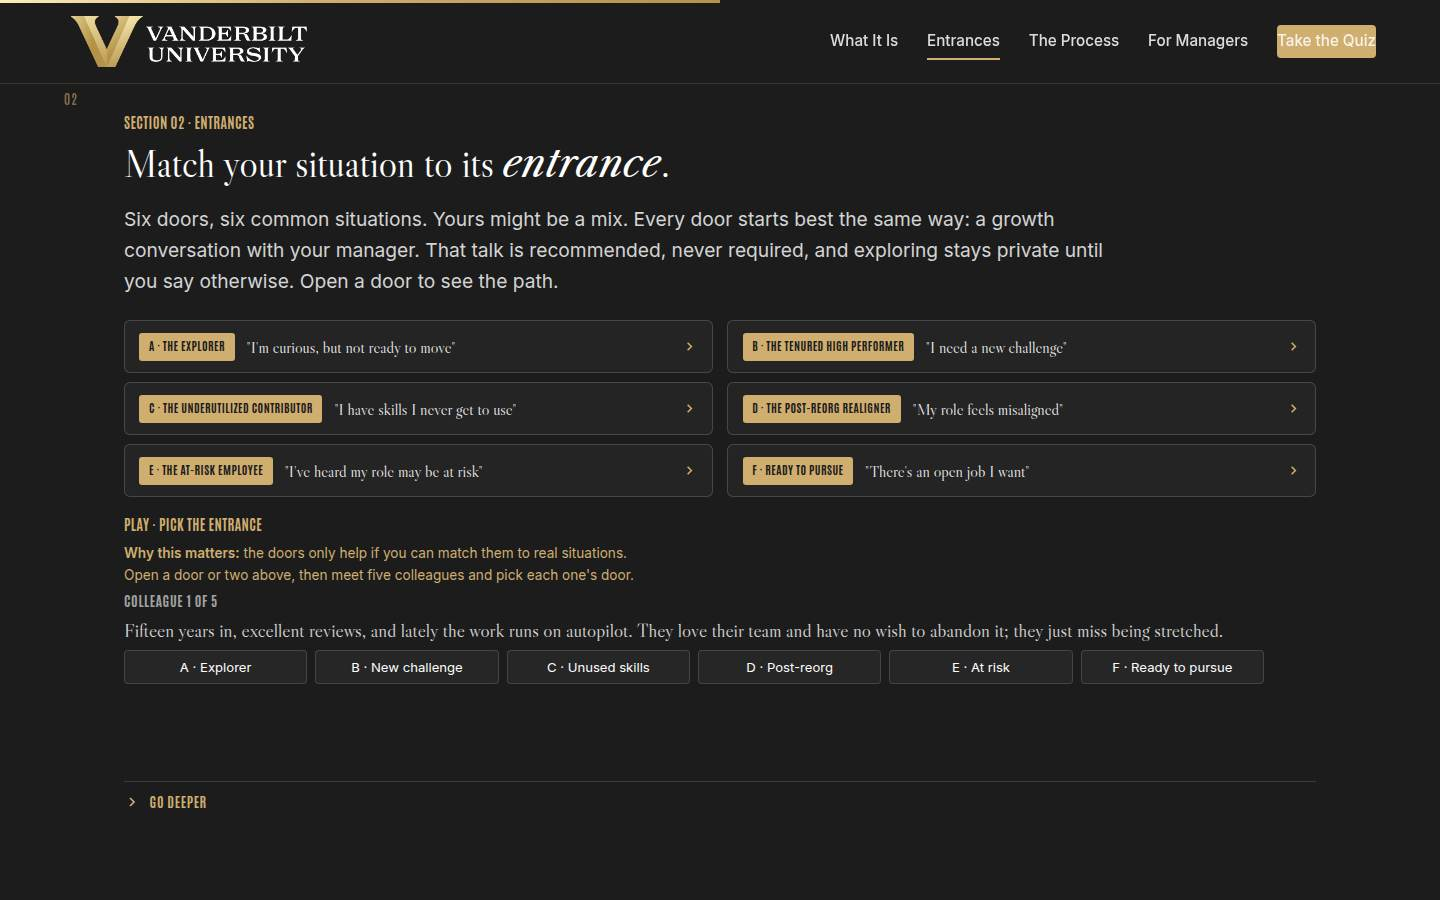
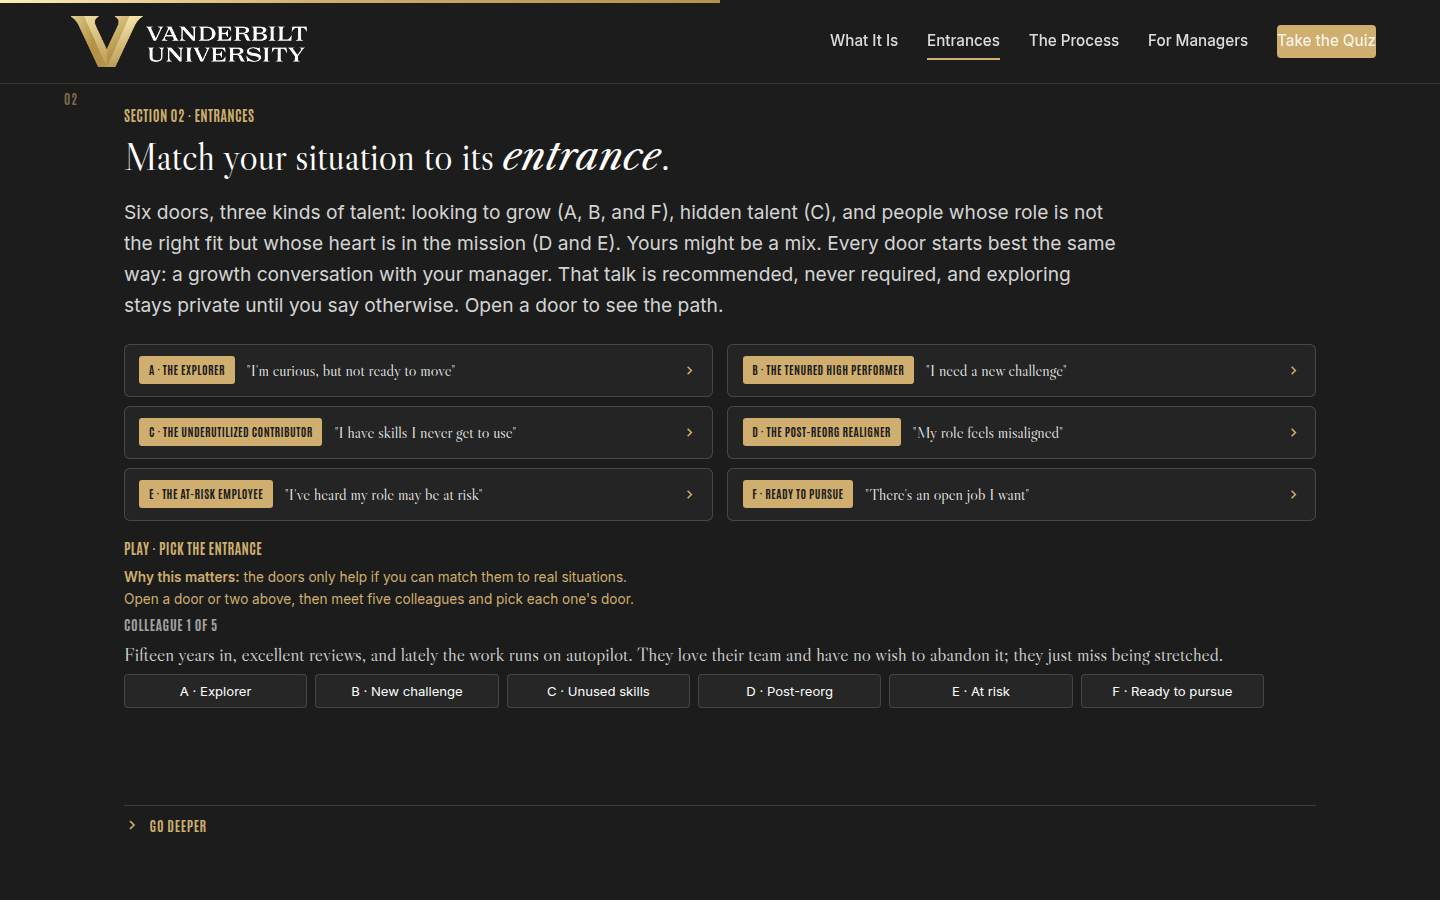
Revamp around three kinds of talent
The program site's audience section now centers three areas: Looking to
grow, Not a fit but right mission, and Hidden talent, each with a voice
quote and a first move. The course's six doors, the facilitator say
track, and the quick reference now group under the same three areas.

Claude-Session: https://claude.ai/code/session_016tfiZ6XpMCwgGy8wFQJXa7

Changed region(s): [[0.0625, 0.0933, 0.875, 0.7778], [0.0938, 0.8711, 0.1562, 0.9333]]

diff --git a/facilitator/index.html b/facilitator/index.html
@@ -393,7 +393,7 @@ body.fac-hide .facshow { display: inline-flex; }
     <div class="wrap">
       <p class="eyebrow" data-reveal>Section 02 · Entrances</p>
       <h2 class="h2" data-reveal>Match your situation to its <em>entrance</em>.</h2>
-      <p class="lead" data-reveal>Six doors, six common situations. Yours might be a mix. Every door starts best the same way: a growth conversation with your manager. That talk is recommended, never required, and exploring stays private until you say otherwise. Open a door to see the path.</p>
+      <p class="lead" data-reveal>Six doors, three kinds of talent: looking to grow (A, B, and F), hidden talent (C), and people whose role is not the right fit but whose heart is in the mission (D and E). Yours might be a mix. Every door starts best the same way: a growth conversation with your manager. That talk is recommended, never required, and exploring stays private until you say otherwise. Open a door to see the path.</p>
 
       <div class="doors">
         <details class="door" data-reveal>
@@ -540,7 +540,7 @@ body.fac-hide .facshow { display: inline-flex; }
         </div>
       </details>
     </div>
-    <aside class="facnote" aria-label="Facilitator notes"><div class="facnote__head"><span>Facilitator script</span><span class="facnote__time">Full 2 min · Core 1</span><button class="facnote__hide" type="button" aria-label="Hide the facilitator script">Hide</button></div><p class="facnote__purpose">Make the marketplace personal: everyone picks a door.</p><div class="facnote__blk"><span class="facnote__tag t-say">Say</span><p class="facnote__script">&ldquo;Six doors, and they are examples: curious, plateaued, hidden skills, post-reorg, at risk, and ready to apply. Your situation may be a blend or something else entirely. Every door opens best the same way, a growth conversation with your manager, recommended and never required. Tap a door to see one full trail, first conversation to landed move.&rdquo;</p></div><div class="facnote__blk"><span class="facnote__tag t-do">Do</span><ol class="facnote__steps"><li>Open one door and walk its trail; the other five read the same way.</li><li>Name the standing start: every door opens best with the manager conversation, recommended, never required.</li><li>Run Pick the Entrance on devices or as a vote.</li><li>Show of hands, A through F: which is yours?</li></ol></div><p class="facnote__meta"><b>Validate:</b> Every learner has picked an entrance; it feeds the card.</p><p class="facnote__meta"><b>Watch for:</b> Protect anyone who picked E; nobody reveals that pick.</p><div class="facnote__blk"><span class="facnote__tag t-tra">Transition</span><p class="facnote__script">&ldquo;Behind every door, the same process.&rdquo;</p></div><p class="facnote__meta facnote__core"><b>60-min core:</b> Core: one door opened, trainer as one vote, hands stay.</p></aside>
+    <aside class="facnote" aria-label="Facilitator notes"><div class="facnote__head"><span>Facilitator script</span><span class="facnote__time">Full 2 min · Core 1</span><button class="facnote__hide" type="button" aria-label="Hide the facilitator script">Hide</button></div><p class="facnote__purpose">Make the marketplace personal: everyone picks a door.</p><div class="facnote__blk"><span class="facnote__tag t-say">Say</span><p class="facnote__script">&ldquo;Six doors, three kinds of talent. Looking to grow: the curious, the plateaued, and the ready. Hidden talent: great in the role, with skills the role never asks for. Not a fit but right mission: post-reorg and at risk. Your situation may be a blend or something else entirely. Every door opens best the same way, a growth conversation with your manager, recommended and never required. Tap a door to see one full trail, first conversation to landed move.&rdquo;</p></div><div class="facnote__blk"><span class="facnote__tag t-do">Do</span><ol class="facnote__steps"><li>Open one door and walk its trail; the other five read the same way.</li><li>Name the standing start: every door opens best with the manager conversation, recommended, never required.</li><li>Run Pick the Entrance on devices or as a vote.</li><li>Show of hands, A through F: which is yours?</li></ol></div><p class="facnote__meta"><b>Validate:</b> Every learner has picked an entrance; it feeds the card.</p><p class="facnote__meta"><b>Watch for:</b> Protect anyone who picked E; nobody reveals that pick.</p><div class="facnote__blk"><span class="facnote__tag t-tra">Transition</span><p class="facnote__script">&ldquo;Behind every door, the same process.&rdquo;</p></div><p class="facnote__meta facnote__core"><b>60-min core:</b> Core: one door opened, trainer as one vote, hands stay.</p></aside>
   </section>
 
   <!-- ============ 6 · 03 THE PROCESS ============ -->

diff --git a/program.html b/program.html
@@ -262,15 +262,24 @@
   <section id="who">
     <div class="wrap">
       <p class="eyebrow">Who it's for</p>
-      <h2>Growth looks <em>different</em> for everyone.</h2>
-      <p class="lead">Six common starting points; yours might be a mix. Wherever you start, the first step is the same: a growth conversation with your manager and an honest look at the skills you want to build. Exploring stays private until you say otherwise.</p>
+      <h2>Three kinds of <em>talent</em>.</h2>
+      <p class="lead">The marketplace serves three situations, and most of us will live in each one at some point. Every path starts the same way: a growth conversation with your manager. Exploring stays private until you say otherwise.</p>
       <div class="cards">
-        <div class="card"><span class="tag">A · Curious</span><p>"I'm happy here, but what else could I grow into?" Browse privately; nobody is alerted.</p></div>
-        <div class="card"><span class="tag">B · Ready to stretch</span><p>"I need a new challenge." Take on a short-term opportunity, keep your home job, build new skills.</p></div>
-        <div class="card"><span class="tag">C · Skills unused</span><p>"I can do more than my job asks." Tag your real skills and let matching find the fit.</p></div>
-        <div class="card"><span class="tag">D · After a reorg</span><p>"My job changed under me." Talk with a career advisor, privately, then explore where your skills fit.</p></div>
-        <div class="card"><span class="tag">E · Role at risk</span><p>"My position may go away." Get priority matching and faster review, on your request.</p></div>
-        <div class="card"><span class="tag">F · Ready to pursue</span><p>"An opportunity I want is open." You built the skills; now pursue it during the staff-first window.</p></div>
+        <div class="card card--gold">
+          <span class="tag">1 · Looking to grow</span>
+          <h3>"I want new skills and a bigger future here."</h3>
+          <p>Name your careers of interest, build a plan with your manager, and develop toward it every day. When the right opportunity arises, you will be ready to pursue it.</p>
+        </div>
+        <div class="card card--gold">
+          <span class="tag">2 · Not a fit, right mission</span>
+          <h3>"This role isn't working, but I believe in this place."</h3>
+          <p>You should not have to leave Vanderbilt to find the right seat. Talk with a career advisor, privately, and find where your skills serve the mission best.</p>
+        </div>
+        <div class="card card--gold">
+          <span class="tag">3 · Hidden talent</span>
+          <h3>"I'm great at my job, and I can offer more."</h3>
+          <p>Your role does not use everything you can do. Tag your real skills, then lend them through short-term opportunities. The university gains your whole game, and your home job stays yours.</p>
+        </div>
       </div>
     </div>
   </section>

diff --git a/facilitator/guide.html b/facilitator/guide.html
@@ -153,7 +153,7 @@
     <div class="sec__notes">
     <h2>02 · Six entrances <span class="mins">Full 2 min · Core 1</span></h2>
     <p class="purpose">Make the marketplace personal: everyone picks a door.</p>
-    <p class="tagline say">Say</p><p class="script">&ldquo;Six doors, and they are examples: curious, plateaued, hidden skills, post-reorg, at risk, and ready to apply. Your situation may be a blend or something else entirely. Every door opens best the same way, a growth conversation with your manager, recommended and never required. Tap a door to see one full trail, first conversation to landed move.&rdquo;</p>
+    <p class="tagline say">Say</p><p class="script">&ldquo;Six doors, three kinds of talent. Looking to grow: the curious, the plateaued, and the ready. Hidden talent: great in the role, with skills the role never asks for. Not a fit but right mission: post-reorg and at risk. Your situation may be a blend or something else entirely. Every door opens best the same way, a growth conversation with your manager, recommended and never required. Tap a door to see one full trail, first conversation to landed move.&rdquo;</p>
     <p class="tagline">Do</p><ol><li>Open one door and walk its trail; the other five read the same way.</li><li>Name the standing start: every door opens best with the manager conversation, recommended, never required.</li><li>Run Pick the Entrance on devices or as a vote.</li><li>Show of hands, A through F: which is yours?</li></ol>
     
     

diff --git a/index.html b/index.html
@@ -293,7 +293,7 @@
     <div class="wrap">
       <p class="eyebrow" data-reveal>Section 02 · Entrances</p>
       <h2 class="h2" data-reveal>Match your situation to its <em>entrance</em>.</h2>
-      <p class="lead" data-reveal>Six doors, six common situations. Yours might be a mix. Every door starts best the same way: a growth conversation with your manager. That talk is recommended, never required, and exploring stays private until you say otherwise. Open a door to see the path.</p>
+      <p class="lead" data-reveal>Six doors, three kinds of talent: looking to grow (A, B, and F), hidden talent (C), and people whose role is not the right fit but whose heart is in the mission (D and E). Yours might be a mix. Every door starts best the same way: a growth conversation with your manager. That talk is recommended, never required, and exploring stays private until you say otherwise. Open a door to see the path.</p>
 
       <div class="doors">
         <details class="door" data-reveal>

diff --git a/web/index.html b/web/index.html
@@ -267,7 +267,7 @@
     <div class="wrap">
       <p class="eyebrow" data-reveal>Section 02 · Entrances</p>
       <h2 class="h2" data-reveal>Match your situation to its <em>entrance</em>.</h2>
-      <p class="lead" data-reveal>Six doors, six common situations. Yours might be a mix. Every door starts best the same way: a growth conversation with your manager. That talk is recommended, never required, and exploring stays private until you say otherwise. Open a door to see the path.</p>
+      <p class="lead" data-reveal>Six doors, three kinds of talent: looking to grow (A, B, and F), hidden talent (C), and people whose role is not the right fit but whose heart is in the mission (D and E). Yours might be a mix. Every door starts best the same way: a growth conversation with your manager. That talk is recommended, never required, and exploring stays private until you say otherwise. Open a door to see the path.</p>
 
       <div class="doors">
         <details class="door" data-reveal>

diff --git a/cheatsheet.html b/cheatsheet.html
@@ -67,7 +67,8 @@
     </div>
 
     <div class="box">
-      <h2>The six entrances</h2>
+      <h2>The six entrances, three kinds of talent</h2>
+      <p style="margin:0 0 8px;font-size:12px;color:#555">Looking to grow: A, B, F &middot; Not a fit, right mission: D, E &middot; Hidden talent: C</p>
       <ol>
         <li><b>A · Explorer:</b> curious, staying put. Careers of Interest + skills profile.</li>
         <li><b>B · New challenge:</b> plateaued high performer. Gigs + Careers of Interest.</li>
